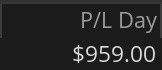
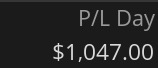
Update Series II Day 4 with third trade

diff --git a/3k-challenge-part-2.html b/3k-challenge-part-2.html
@@ -238,10 +238,10 @@
         <div class="metrics">
           <div class="metric"><span class="muted">Starting Balance</span><strong>$5,285.03</strong></div>
           <div class="metric"><span class="muted">Current Balance</span><strong>$6,208.79</strong></div>
-          <div class="metric"><span class="muted">Daily P&amp;L</span><strong class="green">+$959</strong></div>
+          <div class="metric"><span class="muted">Daily P&amp;L</span><strong class="green">+$1,047</strong></div>
           <div class="metric"><span class="muted">Total Series P&amp;L</span><strong class="green">+$3,208.79</strong></div>
         </div>
-        <p class="muted">Thinkorswim Daily P&amp;L: +$959.00. Documented account-balance change: $6,208.79 minus $5,285.03 equals +$923.76. Total Return: +106.96%.</p>
+        <p class="muted">Thinkorswim Daily P&amp;L: +$1,047.00. Documented account-balance change: $6,208.79 minus $5,285.03 equals +$923.76. Total Return: +106.96%. Balance and equity figures reflect the earlier Schwab screenshot.</p>
 
         <section class="trade" aria-labelledby="day4Trade1Title">
           <h4 id="day4Trade1Title">Trade 1</h4>
@@ -259,10 +259,18 @@
           <p><span class="trade-label">Management / Exit:</span> After the rejection of the main NDX positive GEX, it became much clearer that the max negative GEX on SPX was the likely downside target. The PML flush added confirmation, and the 5-minute candle close below PDC gave me confidence to hold for a second flush. Took profit just short of the main SPX negative GEX level and above the SPY order block.</p>
         </section>
 
+        <section class="trade" aria-labelledby="day4Trade3Title">
+          <h4 id="day4Trade3Title">Trade 3</h4>
+          <p><span class="trade-label">Direction:</span> Short</p>
+          <p><span class="trade-label">Primary Entry Reason:</span> Small short for YDL flush</p>
+          <p><span class="trade-label">Supporting Context:</span> Remaining downside opportunity / blue rVol</p>
+          <p><span class="trade-label">Management / Exit:</span> Took a very small short looking for a flush toward YDL. With 5-minute rVol currently blue, I moved the stop up into profit rather than giving the trade much room to reverse.</p>
+        </section>
+
         <div class="note"><strong>Closing Observation</strong><br>Good example of letting the first idea fail, reassessing the structure, and taking the opposite side once the market gave better confirmation. The NDX GEX rejection drew attention to SPX GEX as the structure to watch, while the PML flush and close below PDC gave the downside thesis enough confirmation to stay with the second move.</div>
 
         <div class="img-grid">
-          <img src="/images/series2-day-4-pnl.jpg" alt="Thinkorswim P&amp;L Day showing +$959.00" width="162" height="70" />
+          <img src="/images/series2-day-4-pnl.jpg" alt="Thinkorswim P&amp;L Day showing +$1,047.00" width="158" height="68" />
           <img src="/images/series2-day-4-equity.jpg" alt="Schwab Available Dollars showing $6,208.79" width="330" height="34" />
         </div>
       </article>
